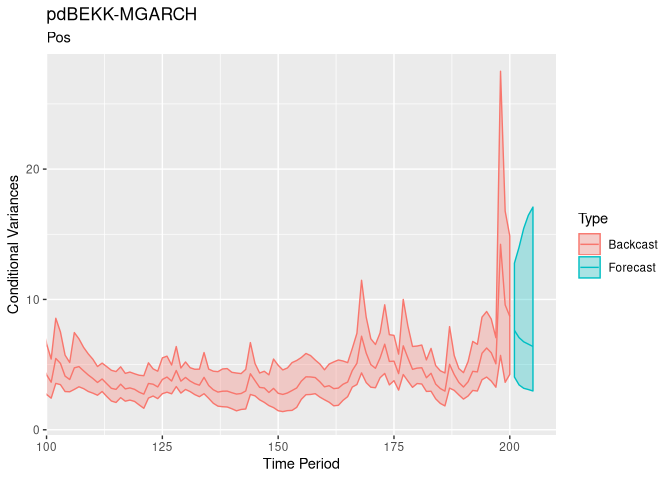
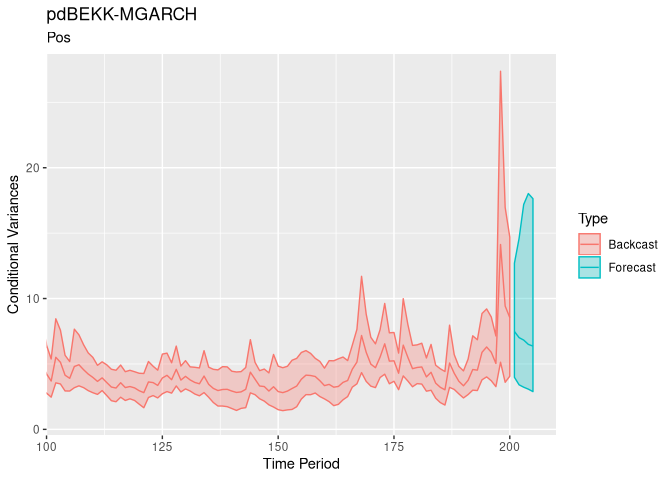
Added cor plot to README.md

diff --git a/README.md b/README.md
@@ -69,6 +69,9 @@ fit <- bmgarch(panas,
 #> COMPILING MODEL 'pdBEKKMGARCH' NOW.
 #> 
 #> STARTING SAMPLER FOR MODEL 'pdBEKKMGARCH' NOW.
+#> Warning: There were 2 transitions after warmup that exceeded the maximum treedepth. Increase max_treedepth above 10. See
+#> http://mc-stan.org/misc/warnings.html#maximum-treedepth-exceeded
+#> Warning: Examine the pairs() plot to diagnose sampling problems
 #> Warning: Bulk Effective Samples Size (ESS) is too low, indicating posterior means and medians may be unreliable.
 #> Running the chains for more iterations may help. See
 #> http://mc-stan.org/misc/warnings.html#bulk-ess
@@ -89,58 +92,58 @@ summary(fit)
 #> ---
 #> Iterations:  1000
 #> Chains:  4
-#> Date:  Fri Mar 13 17:56:18 2020
-#> Elapsed time (min):  5.77
+#> Date:  Fri Mar 13 19:11:42 2020
+#> Elapsed time (min):  6.32
 #> 
 #> ---
 #> Constant correlation, R (diag[C]*R*diag[C]):
 #> 
-#>         mean  sd mdn  2.5% 97.5%   n_eff Rhat
-#> R_Ng-Ps 0.01 0.5   0 -0.91  0.91 1657.52    1
+#>         mean   sd   mdn  2.5% 97.5%   n_eff Rhat
+#> R_Ng-Ps    0 0.49 -0.01 -0.91  0.89 1425.38    1
 #> 
 #> 
 #> Constant variances (diag[C]):
 #> 
 #>        mean   sd  mdn 2.5% 97.5%  n_eff Rhat
-#> var_Ps 0.67 0.86 0.30 0.01  3.21 545.35 1.01
-#> var_Ng 1.27 0.41 1.31 0.23  1.96 777.96 1.01
+#> var_Ps 0.73 0.92 0.35 0.01  3.40 379.60 1.01
+#> var_Ng 1.26 0.42 1.32 0.24  1.94 518.92 1.00
 #> 
 #> 
 #> MGARCH(1,1) estimates for A:
 #> 
 #>         mean   sd  mdn  2.5% 97.5%   n_eff Rhat
-#> A_Ps-Ps 0.35 0.10 0.35  0.14  0.55 1925.96    1
-#> A_Ng-Ps 0.05 0.08 0.05 -0.10  0.20 1721.95    1
-#> A_Ps-Ng 0.06 0.14 0.07 -0.24  0.33 1520.21    1
-#> A_Ng-Ng 0.39 0.12 0.40  0.15  0.61 1233.61    1
+#> A_Ps-Ps 0.34 0.11 0.35  0.11  0.55  912.66    1
+#> A_Ng-Ps 0.06 0.08 0.05 -0.09  0.21 1642.67    1
+#> A_Ps-Ng 0.06 0.14 0.06 -0.23  0.33 1488.82    1
+#> A_Ng-Ng 0.39 0.12 0.39  0.13  0.60  825.11    1
 #> 
 #> 
 #> MGARCH(1,1) estimates for B:
 #> 
-#>          mean   sd   mdn  2.5% 97.5%   n_eff Rhat
-#> B_Ps-Ps  0.74 0.23  0.84  0.09  0.95  472.28 1.01
-#> B_Ng-Ps -0.07 0.16 -0.08 -0.43  0.34  454.75 1.02
-#> B_Ps-Ng  0.24 0.40  0.25 -0.72  1.06  645.33 1.00
-#> B_Ng-Ng  0.33 0.19  0.31  0.02  0.72 1330.75 1.00
+#>          mean   sd   mdn  2.5% 97.5%  n_eff Rhat
+#> B_Ps-Ps  0.73 0.24  0.83  0.06  0.94 293.45 1.01
+#> B_Ng-Ps -0.08 0.16 -0.08 -0.47  0.29 312.48 1.01
+#> B_Ps-Ng  0.27 0.41  0.27 -0.73  1.13 520.00 1.00
+#> B_Ng-Ng  0.33 0.20  0.32  0.01  0.74 933.35 1.00
 #> 
 #> 
 #> Intercept estimates on the location:
 #> 
 #>                 mean   sd  mdn  2.5% 97.5%   n_eff Rhat
-#> (Intercept)_Pos 0.01 0.13 0.01 -0.25  0.26 2498.10    1
-#> (Intercept)_Neg 0.11 0.10 0.11 -0.08  0.30 2419.84    1
+#> (Intercept)_Pos 0.01 0.14 0.00 -0.27   0.3 2349.14    1
+#> (Intercept)_Neg 0.11 0.10 0.11 -0.09   0.3 2504.08    1
 #> 
 #> 
 #> Df constant student_t (nu):
 #> 
 #>    mean      sd     mdn    2.5%   97.5%   n_eff    Rhat 
-#>   51.69   26.91   46.58   14.45  111.95 2232.11    1.00 
+#>   53.85   28.13   48.41   15.39  119.21 2180.27    1.00 
 #> 
 #> 
 #> Log density posterior estimate:
 #> 
 #>    mean      sd     mdn    2.5%   97.5%   n_eff    Rhat 
-#> -802.98    4.62 -802.63 -813.23 -794.99  357.17    1.02
+#> -803.37    4.81 -802.97 -814.24 -795.31  330.79    1.02
 ```
 
 ### Forecasted values
@@ -155,29 +158,29 @@ fit.fc
 #> Pos :
 #>       
 #> period mean   sd  mdn 2.5% 97.5%   n_eff Rhat
-#>    201 7.62 2.38 7.38 4.05 12.78  921.44    1
-#>    202 7.07 3.22 6.54 3.44 14.01 1310.85    1
-#>    203 6.75 3.57 6.00 3.18 15.45 1607.94    1
-#>    204 6.57 4.17 5.44 3.09 16.45 1947.53    1
-#>    205 6.39 4.69 5.12 2.98 17.09 1907.63    1
+#>    201 7.48 2.41 7.26 3.98 12.70  491.19    1
+#>    202 7.01 3.12 6.51 3.41 14.59  916.84    1
+#>    203 6.82 4.17 5.85 3.22 17.19 1624.79    1
+#>    204 6.50 3.98 5.39 3.07 18.03 1543.71    1
+#>    205 6.37 4.39 5.03 2.88 17.63 1821.36    1
 #> Neg :
 #>       
 #> period mean   sd  mdn 2.5% 97.5%   n_eff Rhat
-#>    201 1.90 0.35 1.86 1.34  2.72 1437.36    1
-#>    202 2.17 0.73 2.00 1.38  4.04 1753.59    1
-#>    203 2.25 1.02 2.01 1.40  4.49 1924.90    1
-#>    204 2.28 1.37 2.03 1.41  4.61 2002.03    1
-#>    205 2.26 1.21 2.01 1.38  4.61 1966.20    1
+#>    201 1.91 0.35 1.86 1.35  2.78 1142.94    1
+#>    202 2.17 0.81 1.99 1.39  4.01 1962.46    1
+#>    203 2.25 1.28 2.01 1.37  4.34 1915.92    1
+#>    204 2.27 1.04 2.03 1.39  4.70 1918.36    1
+#>    205 2.27 1.08 2.00 1.39  5.15 2101.68    1
 #> [Correlation] Forecast for 5 ahead:
 #> 
 #> Neg_Pos :
 #>       
 #> period  mean   sd   mdn  2.5% 97.5%   n_eff Rhat
-#>    201 -0.06 0.16 -0.06 -0.38  0.24 1126.10    1
-#>    202 -0.06 0.20 -0.07 -0.43  0.34 1876.16    1
-#>    203 -0.05 0.21 -0.06 -0.45  0.42 1676.73    1
-#>    204 -0.04 0.20 -0.05 -0.44  0.40 1439.03    1
-#>    205 -0.04 0.20 -0.04 -0.44  0.39 2027.60    1
+#>    201 -0.05 0.15 -0.05 -0.36  0.24  958.56    1
+#>    202 -0.06 0.20 -0.06 -0.45  0.37 1352.61    1
+#>    203 -0.05 0.20 -0.05 -0.45  0.37 1544.84    1
+#>    204 -0.04 0.21 -0.05 -0.43  0.42 1537.14    1
+#>    205 -0.02 0.20 -0.02 -0.43  0.41 2046.01    1
 ```
 
 ``` r
@@ -185,3 +188,10 @@ plot(fit.fc, askNewPage = FALSE, type = "var")
 ```
 
 <img src="man/figures/README-forecastPlot-1.png" width="100%" /><img src="man/figures/README-forecastPlot-2.png" width="100%" />
+
+``` r
+
+plot(fit.fc, askNewPage = FALSE, type = "cor")
+```
+
+<img src="man/figures/README-forecastPlot-3.png" width="100%" />
